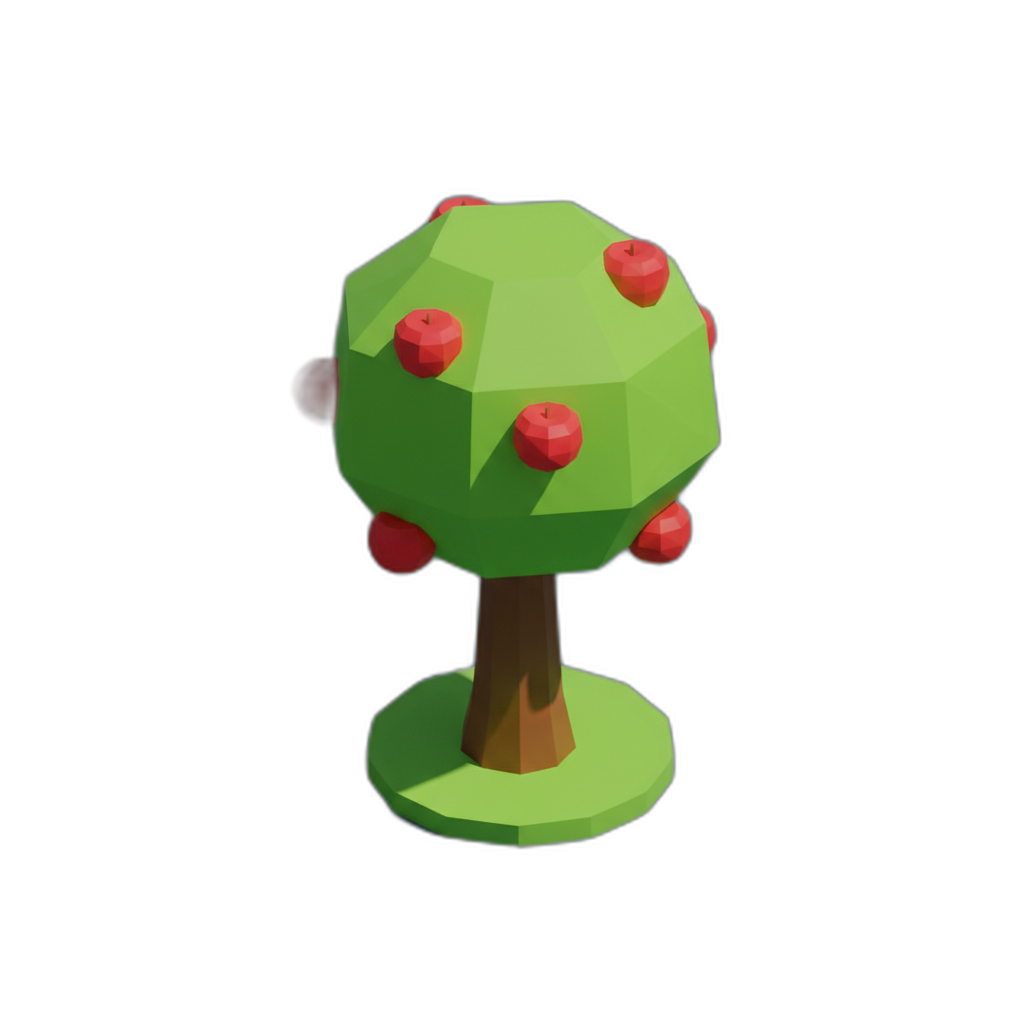
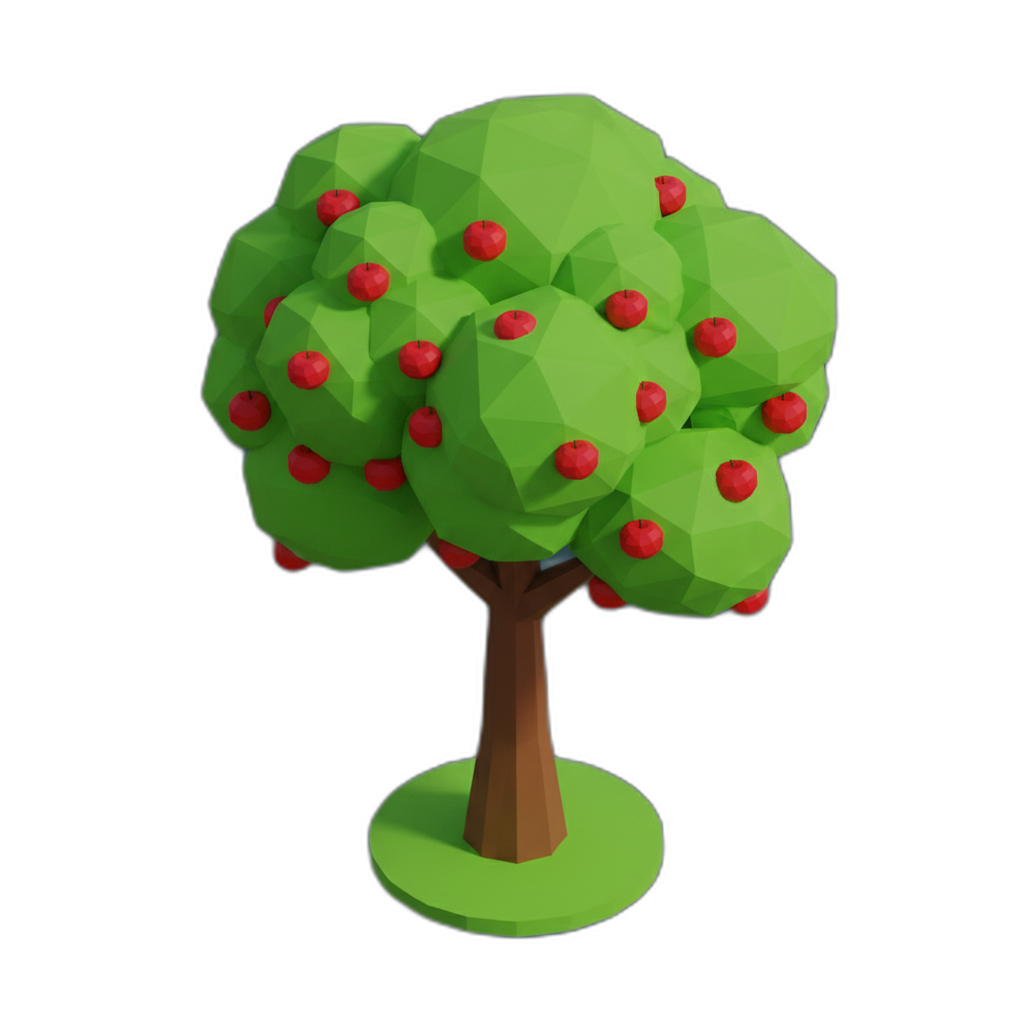
apple tree stages + 3D tree images on forest overlay

Changed region(s): [[0.1875, 0.0938, 0.8438, 0.9375]]

diff --git a/mockup.html b/mockup.html
@@ -941,17 +941,24 @@ function buildIsoForest() {
   positions.sort(function(a,b){return a.py - b.py;});
   positions = positions.slice(0, maxTrees);
 
-  // Place trees in the overlay container using percentage positioning
+  // Place 3D tree images in the overlay container using percentage positioning
   var overlay = document.getElementById('isoTreeOverlay');
+
+  // Map tree types to species IDs for 3D images
+  var treeSpeciesIds = ['mighty_oak', 'cherry_blossom', 'coconut_palm', 'banana_plant', 'apple_tree',
+    'mighty_oak', 'cherry_blossom', 'coconut_palm'];
 
   positions.forEach(function(p) {
     var div = document.createElement('div');
-    div.style.cssText = 'position:absolute;left:'+p.px+'%;top:'+p.py+'%;transform:translate(-50%,-100%) scale(1);transition:opacity 0.4s cubic-bezier(0.34,1.56,0.64,1),transform 0.4s cubic-bezier(0.34,1.56,0.64,1);opacity:0;z-index:'+Math.floor(p.py*10)+';pointer-events:auto;cursor:pointer;filter:drop-shadow(0 2px 2px rgba(0,0,0,0.2));';
-    // Use percentage-based size
-    var szPx = Math.round(p.sizePct * 6.5); // approximate pixel size for SVG rendering
-    var template = document.createElement('template');
-    template.innerHTML = isoTrees[p.type](szPx).trim();
-    div.appendChild(template.content.firstChild);
+    var speciesId = treeSpeciesIds[p.type % treeSpeciesIds.length];
+    var stageKey = ['seed', 'sprout', 'small', 'full'][p.stage || 3];
+    div.style.cssText = 'position:absolute;left:'+p.px+'%;top:'+p.py+'%;transform:translate(-50%,-85%) scale(1);transition:opacity 0.4s cubic-bezier(0.34,1.56,0.64,1),transform 0.4s cubic-bezier(0.34,1.56,0.64,1);opacity:0;z-index:'+Math.floor(p.py*10)+';pointer-events:auto;cursor:pointer;';
+    var img = document.createElement('img');
+    img.src = 'trees/stages/' + speciesId + '_' + stageKey + '.png';
+    img.alt = speciesId;
+    img.style.cssText = 'width:'+Math.round(p.sizePct * 1.2)+'%;max-width:80px;height:auto;display:block;filter:drop-shadow(0 3px 3px rgba(0,0,0,0.25));';
+    img.draggable = false;
+    div.appendChild(img);
     overlay.appendChild(div);
     isoTreeEls.push(div);
   });
